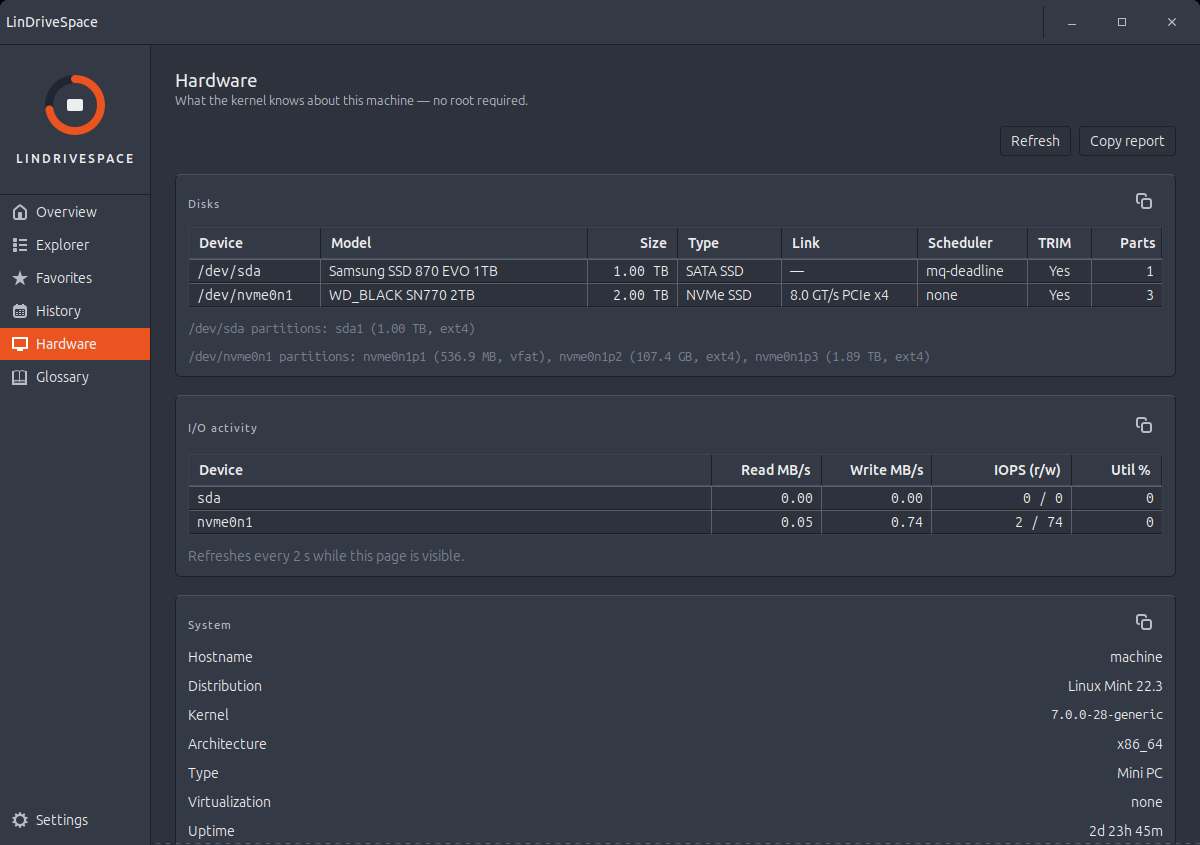
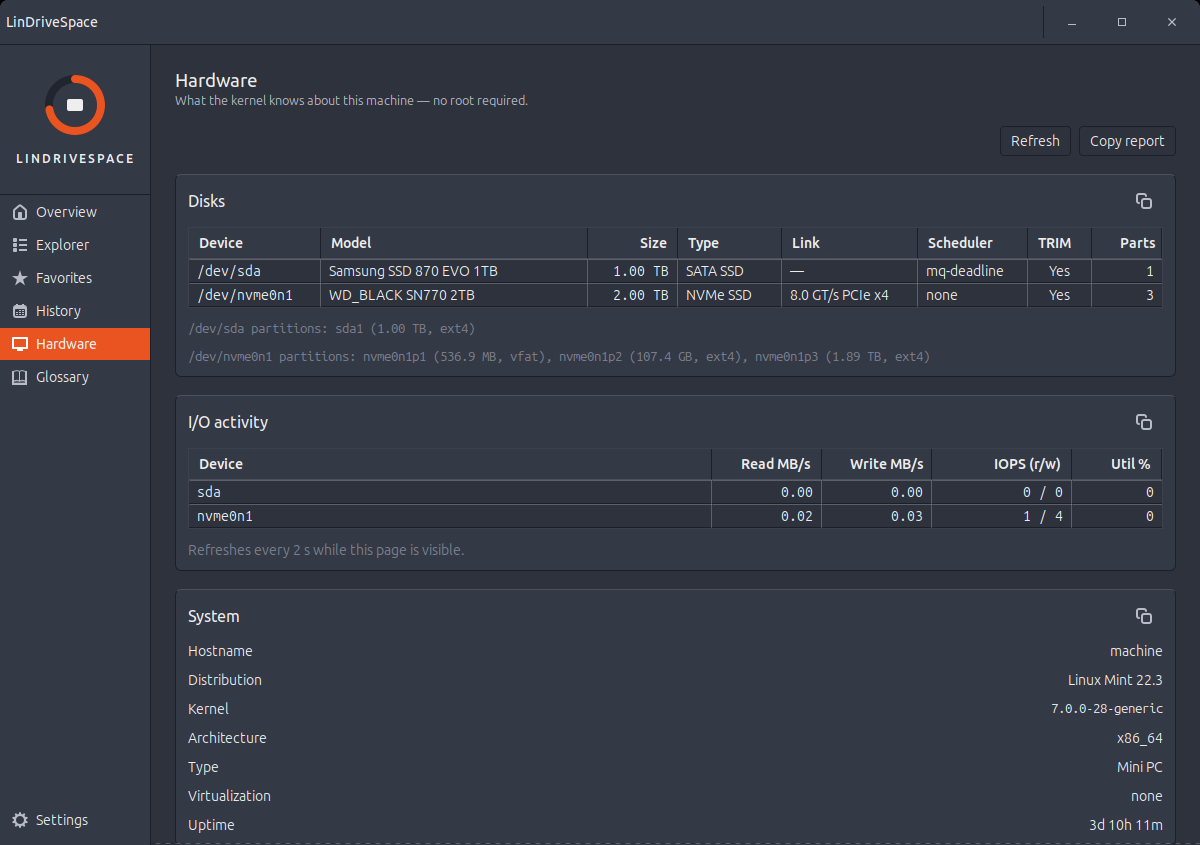
Hardware: larger card titles; backlog: Flathub compliance work package
Claude-Session: https://claude.ai/code/session_01Roqywc8y1DLV39FFJuyqcP

diff --git a/data/css/app.css b/data/css/app.css
@@ -119,6 +119,14 @@ headerbar.lds-header button:checked {
   letter-spacing: 1px;
   margin-top: 6px;
 }
+/* Card titles that read as headings (Hardware): a step below the 14 pt page title. */
+.section-title.large {
+  color: @fg;
+  font-size: 12pt;
+  font-weight: 500;
+  letter-spacing: 0.3px;
+  margin-top: 2px;
+}
 .paragraph {
   color: @fg_muted;
 }

diff --git a/src/lindrivespace/ui/pages/hardware.py b/src/lindrivespace/ui/pages/hardware.py
@@ -109,6 +109,8 @@ def _format_uptime(seconds: float) -> str:
 
 def _copyable(group: PrefGroup) -> PrefGroup:
     group.enable_copy()
+    # Hardware cards read as headings: a step below the page title (see .section-title.large).
+    group.title_widget.get_style_context().add_class("large")
     return group
 
 

diff --git a/docs/BACKLOG.md b/docs/BACKLOG.md
@@ -95,3 +95,18 @@ folder with a half bar. Review verdict: arithmetic exact, semantics wrong. Imple
 | F6 | Hidden toggle did not update the model's file listing until a rescan. | **[fixed]** |
 | F7 | Summary row shows the "N more files" count in the Files column (others show recursive counts). | Open, cosmetic. |
 | F8 | "Focus here" to renormalise Share % to a sub-folder, like the treemap. | Open, enhancement. |
+
+## G. Distribution — Flathub (2026-09-16 assessment)
+
+Metadata is close; the sandbox is the work. Gaps, cheapest first:
+
+| # | Item | Effort |
+|---|---|---|
+| G1 | Metainfo `project_license` → the real SPDX id `PolyForm-Noncommercial-1.0.0` (Flathub accepts redistributable non-free apps). | XS |
+| G2 | App ID verification: keep `com.mensuramedia.lindrivespace` only if mensuramedia.com can host Flathub's verification file; otherwise rename everything to `io.github.MensuraMedia.lindrivespace` (desktop, metainfo, icons, polkit). | S |
+| G3 | Flathub manifest repo: GNOME runtime (GTK 3), source pinned to a tag, modules for psutil + pyudev, bundle the Ubuntu fonts. | S |
+| G4 | Root mapping: inside the sandbox `/` is the runtime; the host root is `/run/host`. Mount list + scanner need a path layer so `/` scans `/run/host` and displays as `/` (`--filesystem=host`, host-os, host-etc). | M |
+| G5 | Fallbacks without udev/lsblk in the sandbox: poll `/proc/self/mountinfo` for hot-plug; read disk details from `/sys` only. | S |
+| G6 | Scheduler inside Flatpak: unit runs `flatpak run --command=lindrivespace <id> --collect`; enabling needs D-Bus to the user's systemd (or a host spawn) — declare and justify in the manifest. | S |
+| G7 | "Scan as administrator" (pkexec) is impossible in the sandbox: hide it in the Flatpak build. | XS |
+| G8 | Submission: flathub-builder test build, reviewer questions on host filesystem access (a disk-usage app has a clear justification). | S |

diff --git a/changelog.md b/changelog.md
@@ -75,3 +75,4 @@
 | 2026-09-16T03:30:00 | README (user): "Compatibility and requirements" table (Mint 22.x tested, LMDE, Ubuntu 24.04+ and derivatives, Debian 12+, older releases from the checkout, non-Debian via their own PyGObject packages; X11/Wayland); Explorer screenshots re-taken without the side panel (VM drill-down as hero, second view with the optional Of parent % column). |
 | 2026-09-16T04:00:00 | Version 0.2.0 (user: packages updated): __init__, pyproject, AppStream release entry, README; .deb rebuilt (dist/lindrivespace_0.2.0_all.deb, launches from its extracted tree), user install refreshed; tag v0.2.0. |
 | 2026-09-16T04:30:00 | README (user): Analysis/treemap screenshot replaced with the user's capture of /home/user with the panel open (new Share % bars, treemap). |
+| 2026-09-16T05:10:00 | Hardware (user): card titles enlarged to 12 pt (.section-title.large, a step below the 14 pt page title); screenshot re-taken. Backlog §G: Flathub compliance assessment (SPDX id, app-id verification, manifest, /run/host root mapping, udev/lsblk fallbacks, scheduler, pkexec). |

diff --git a/.claude/memory/pending.md b/.claude/memory/pending.md
@@ -16,3 +16,4 @@
 - [ ] Optional: History page shortcut to Settings › Background collection.
 - [ ] Backlog (docs/BACKLOG.md): A1 button transition 200 ms (one CSS line), A2 Glossary 190 ms show, A3/A4 click-path saves + systemctl, B3 tree-selection assertion, B4 log volume, C1 retained-scan memory (186 MB after /home; /mnt/data 5.1 M entries), C2 parallel scanner, C3 snapshot serialisation in a child process, C4 lsblk off the main thread, D1 XDG isolation in UI tests.
 - [x] Change table colours, Settings › Diagnostics logging, Scanned column removed, star-click ValueError, error-bar storm — done 2026-09-15.
+- [ ] Flathub packaging (docs/BACKLOG.md §G): SPDX id, app-id verification/rename, manifest, /run/host root mapping, udev/lsblk fallbacks, scheduler via flatpak run, hide pkexec.
